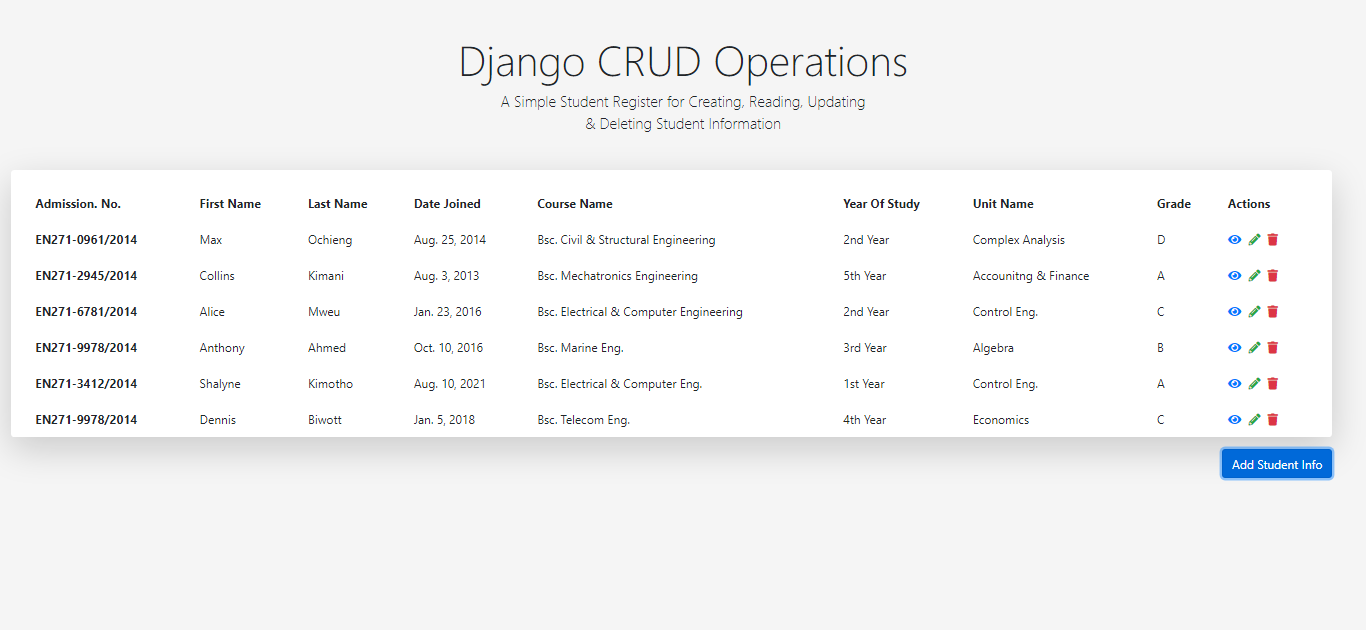
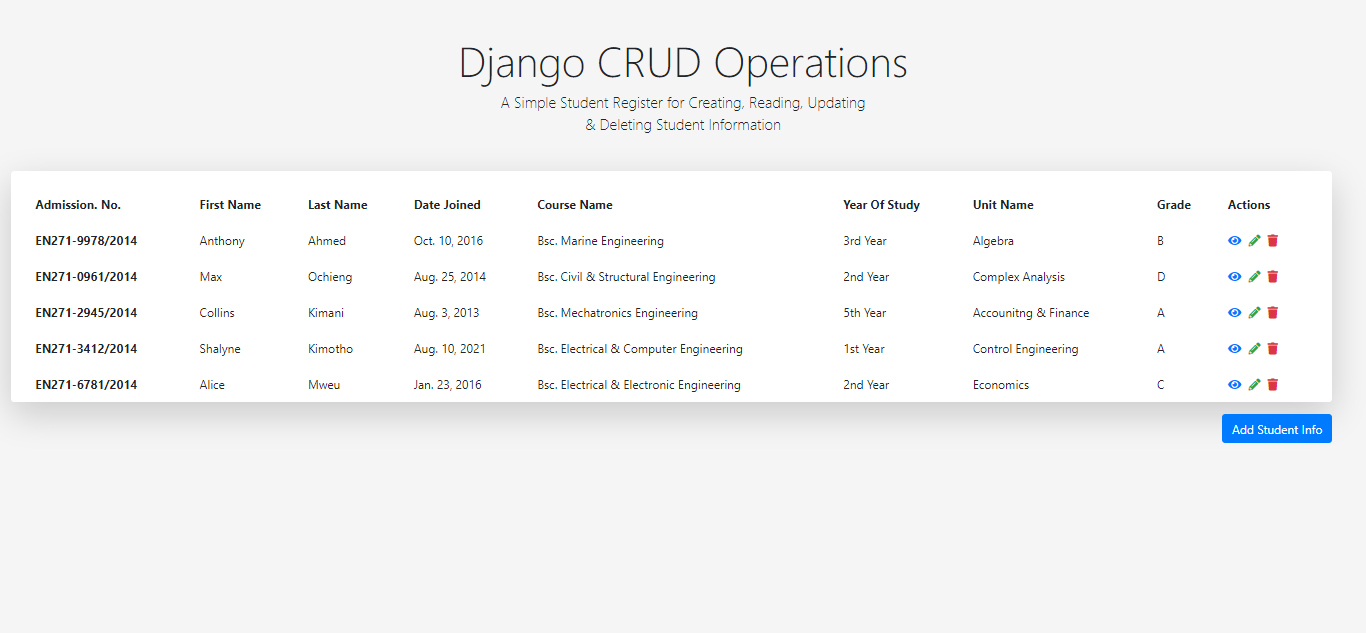
Fixed some typing errors

diff --git a/src/StudentRegister/forms.py b/src/StudentRegister/forms.py
@@ -29,13 +29,13 @@ Department = [
 
 Course_Name = [
     ('Course', ('Course')),
-    ('Bsc. Electrical & Electronic Eng.', ('Bsc. Electrical & Electronic Eng.')),
-    ('Bsc. Electrical & Computer Eng.', ('Bsc. Electrical & Computer Eng.')),
-    ('Bsc. Mech. Eng.', ('Bsc. Mech. Eng.')),
-    ('Bsc. Telecom Eng.', ('Bsc. Telecom Eng.')),
-    ('Bsc. Civil & Structural Eng.', ('Bsc. Civil & Structural Eng.')),
-    ('Bsc. Mechatronics Eng.', ('Bsc. Mechatronics Eng.')),
-    ('Bsc. Marine Eng.', ('Bsc. Marine Eng.')),
+    ('Bsc. Electrical & Electronic Engineering', ('Bsc. Electrical & Electronic Engineering')),
+    ('Bsc. Electrical & Computer Engineering', ('Bsc. Electrical & Computer Engineering')),
+    ('Bsc. Mech. Engineering', ('Bsc. Mech. Engineering')),
+    ('Bsc. Telecom Engineering', ('Bsc. Telecom Engineering')),
+    ('Bsc. Civil & Structural Engineering', ('Bsc. Civil & Structural Engineering')),
+    ('Bsc. Mechatronics Engineering', ('Bsc. Mechatronics Engineering')),
+    ('Bsc. Marine Engineering', ('Bsc. Marine Engineering')),
 ]
 
 Year = [
@@ -51,7 +51,7 @@ Units = [
     ('Unit', ('Unit')),
     ('Calculus', ('Calculus')),
     ('Complex Analysis', ('Complex Analysis')),
-    ('Control Eng.', ('Control Eng.')),
+    ('Control Engineering', ('Control Engineering')),
     ('Economics', ('Economics')),
     ('Accounitng & Finance', ('Accounting & Finance')),
     ('Algebra', ('Algebra')),
